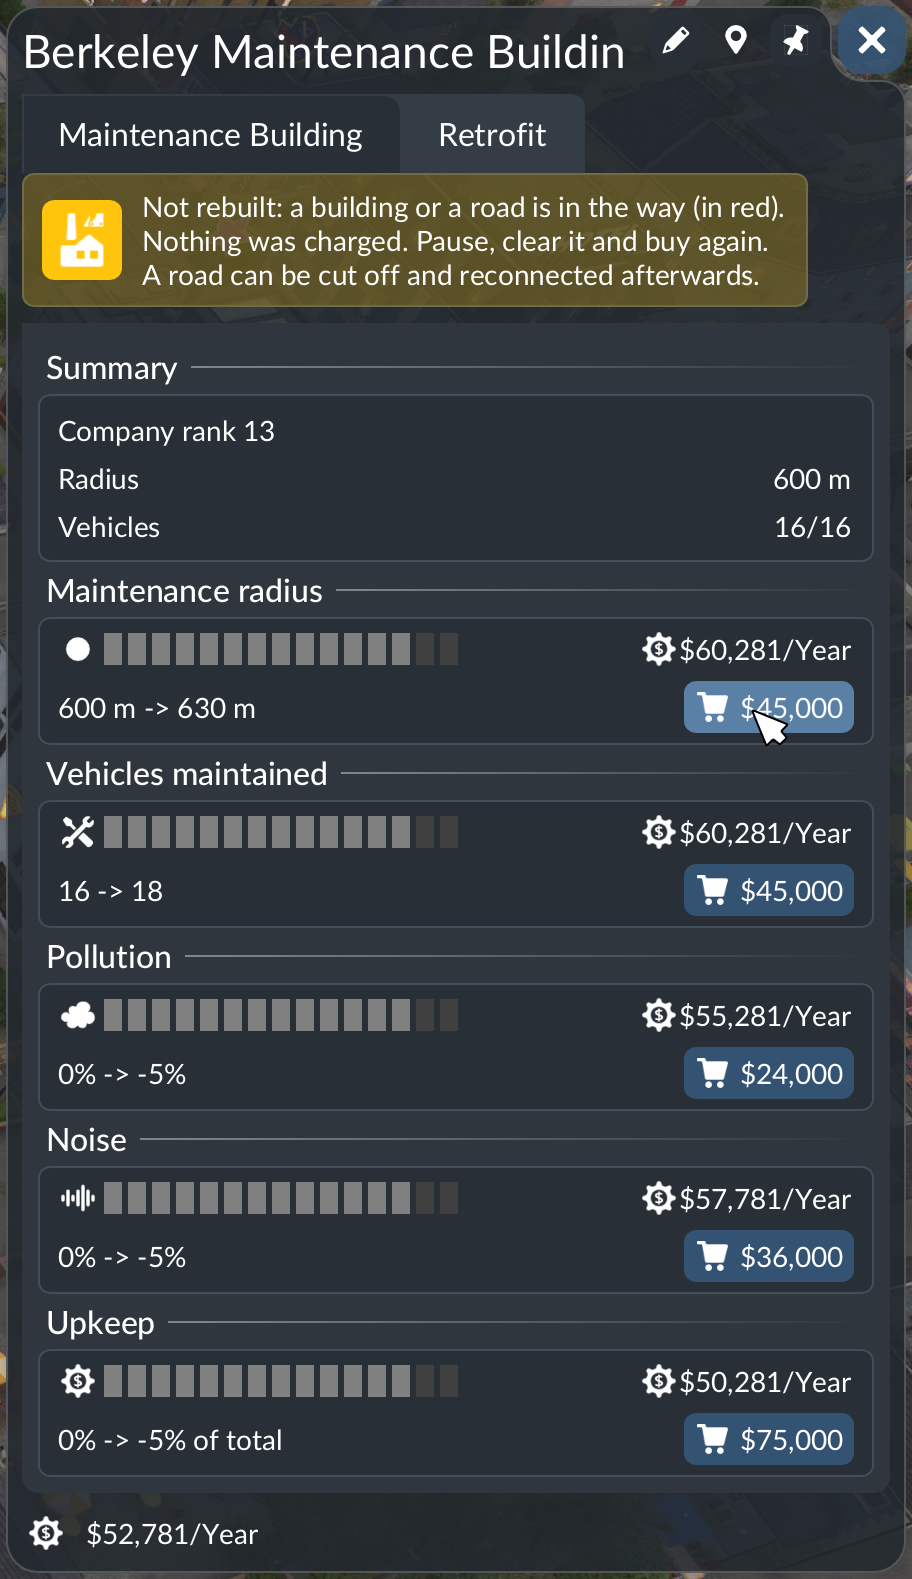
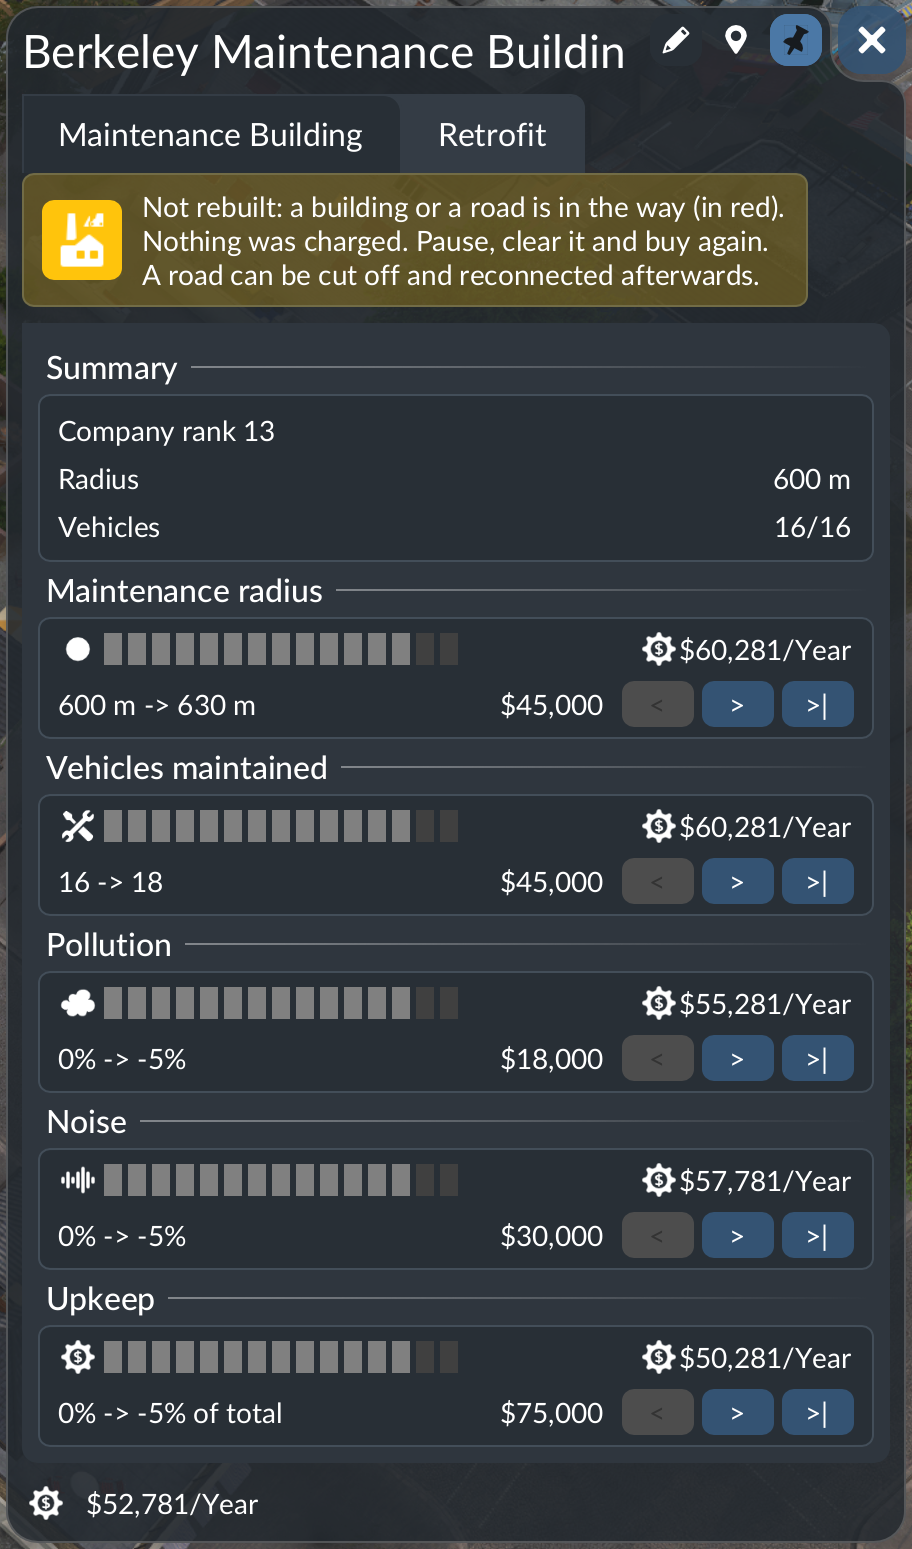
Gallery: retake images 2 and 3 with the step buttons
2-retrofit-tabs-2.jpg is redrawn with make_gallery.py and the same layout
from new window crops in tools/gallery/: Artesia Maintenance Building and
Quemado Oil Refinery Train Depot (rank 8), Peterlee Refinery West Ship
Depot (rank 15) and Berkeley Maintenance Building's "Not rebuilt" (rank
13). 3-not-rebuilt-2.jpg is the Berkeley shot cropped to 16:9 without the
toolbar. New names so mod.io sends them; references updated.

diff --git a/tools/make_gallery.py b/tools/make_gallery.py
@@ -12,8 +12,8 @@ Cards are listed from the bottom of the pile to the top. angle is in degrees (po
 pixels, slot is its place from the left (default: its place in the list). --spacing (pixels between card centres, default
 560) and --card-height (default 880) fit more than three cards. Needs rsvg-convert, for the background.
 
-The current listing's 2-retrofit-tabs.jpg (four Retrofit tabs, the last one showing "Not rebuilt") was made from the crops in tools/gallery/ with:
-python3 tools/make_gallery.py --spacing 465 --card-height 760 depot_retrofits_1/_metadata/2-retrofit-tabs.jpg tools/gallery/maintenance_building.png:2.5:16:0 tools/gallery/train_depot.png:-2.5:22:2 tools/gallery/ship_depot.png:-1:-4:1 tools/gallery/maintenance_not_rebuilt.png:1.5:6:3
+The current listing's 2-retrofit-tabs-2.jpg (four Retrofit tabs, the last one showing "Not rebuilt") was made from the crops in tools/gallery/ with:
+python3 tools/make_gallery.py --spacing 465 --card-height 760 depot_retrofits_1/_metadata/2-retrofit-tabs-2.jpg tools/gallery/maintenance_building.png:2.5:16:0 tools/gallery/train_depot.png:-2.5:22:2 tools/gallery/ship_depot.png:-1:-4:1 tools/gallery/maintenance_not_rebuilt.png:1.5:6:3
 """
 import subprocess
 import sys

diff --git a/docs/publishing.md b/docs/publishing.md
@@ -23,7 +23,7 @@
 2. **Upload.** Start the game, open **Mod Hub**, then **My Mods**, and click the mod's card. In the dialog:
    - **Validation** should read "No Issues Found" (**Re-Validate** runs it again).
    - **Preview**: the cover. On the first upload click the slot (camera icon) and pick `0.jpg`; without a cover the card shows a "?".
-   - **Gallery**: `1-cover.jpg` (the cover again), `2-retrofit-tabs.jpg`, `3-not-rebuilt.jpg`, `4-ship-depot-2.jpg`, `5-boathouse-2.jpg`, `6-rail-maintenance-2.jpg` in that order. See [Gallery](#gallery) before moving any.
+   - **Gallery**: `1-cover.jpg` (the cover again), `2-retrofit-tabs-2.jpg`, `3-not-rebuilt-2.jpg`, `4-ship-depot-2.jpg`, `5-boathouse-2.jpg`, `6-rail-maintenance-2.jpg` in that order. See [Gallery](#gallery) before moving any.
    - Tick both **PC** and **Console** for the two files (Windows, Mac and Linux; Xbox Series X/S and PlayStation 5).
    - **Set Public** ticked. Unticked, the page is hidden from visitors.
    - **Update Metadata** ticked, so the page takes the name, summary, description and tags from `modinfo.json`.
@@ -37,13 +37,13 @@
 
 ## Gallery
 
-- **The cover is in the gallery only as the first gallery image.** `0.jpg` fills the dialog's Preview slot and the mod's card, but the gallery under the large image holds only the files after it and the large image opens on the first of them (seen in the mod's dialog in the save's Mods tab and in My Mods, staging copy, 31 Oct 2026). So `1-cover.jpg` is a copy of the cover, as in Best Before, and the window cards come next as `2-retrofit-tabs.jpg`. `tools/make_preview.py` run without OUT_FILE writes both `0.jpg` and `1-cover.jpg`.
+- **The cover is in the gallery only as the first gallery image.** `0.jpg` fills the dialog's Preview slot and the mod's card, but the gallery under the large image holds only the files after it and the large image opens on the first of them (seen in the mod's dialog in the save's Mods tab and in My Mods, staging copy, 31 Oct 2026). So `1-cover.jpg` is a copy of the cover, as in Best Before, and the window cards come next as `2-retrofit-tabs-2.jpg`. `tools/make_preview.py` run without OUT_FILE writes both `0.jpg` and `1-cover.jpg`.
 - **The order is the file names.** In Best Before's dialog the gallery showed its images sorted by name, and the page followed the dialog.
 - **Moving a thumbnail swaps the files.** Each thumbnail in the dialog has a small < (Move Left), > (Move Right) and bin over its top right corner. Moving one swaps the two files' contents on disk and writes nothing else, so a named file would end up holding another picture. Reorder by renaming the files in the repo instead; if the dialog was used, fix the names to match the pictures before committing.
 - **mod.io keeps old names.** A file uploaded under a name mod.io already holds is stored under a new name (`0.4.jpg`, `workshop_preview.1.jpg`) and the old one stays on its image server.
 - **An update does not send a gallery image whose name mod.io already has.** The cover went up at every upload (`0.jpg` to `0.4.jpg` on the image server after five uploads). The gallery went up at 1.0 and again at 1.1, which added `6.jpg`; 1.1.1, 1.2 and a later update with the gallery reordered sent none, so the page kept 1.1's `2.jpg` and `6.jpg` after 1.2 replaced them on disk. So a changed picture gets a new name after the number (`3-not-rebuilt-2.jpg`). Renaming all six to `<n>-<name>.jpg` worked: the next update sent all six, stored under their own names and byte for byte the files on disk (1 Nov 2026). Whether one new name sends only that file or the whole gallery again is not known yet.
 - **An update for the images alone sends the mod file too.** The reordered update added a new pair of files (Windows, Mac and Linux; Xbox Series X/S and PlayStation 5) with the same code: after five uploads the page listed two files and "8 other versions", and the renamed gallery's update added another pair, showing about two minutes later ("10 other versions", each pair with its own changelog line). So a gallery fix is best sent with a release.
-- **Thumbnails are cropped to 16:9**, so every image is 1920x1080. `2-retrofit-tabs.jpg` is drawn by `tools/make_gallery.py` (its docstring has the command); the others after it are game screenshots cropped to 16:9, so the shot must leave room above and below the window (a shot narrower than 16:9 loses the window's title or footer).
+- **Thumbnails are cropped to 16:9**, so every image is 1920x1080. `2-retrofit-tabs-2.jpg` is drawn by `tools/make_gallery.py` (its docstring has the command); the others after it are game screenshots cropped to 16:9, so the shot must leave room above and below the window (a shot narrower than 16:9 loses the window's title or footer).
 
 ## Hub search and tiles
 

diff --git a/TODO.md b/TODO.md
@@ -23,13 +23,13 @@
   - [ ] "<" on a level above the rank (needs a building levelled above the current rank).
   - [x] A refused rebuild for a buy with the new buttons, ">|" included: "Not rebuilt" and the blocker in red, nothing charged (9 refused, 7 replaced by a retry, 2 expired after 30 s); after clearing, ">|" to 13 landed and was charged once ("333": Berkeley Maintenance Building, Berkeley Road Depot).
   - [ ] A refused rebuild for a removal: "Not rebuilt" with the removal wording ("The level was kept and nothing was refunded"), and nothing refunded.
-- [ ] Retake the gallery's `2-retrofit-tabs.jpg` (and `3-not-rebuilt.jpg`, which shows a card) with the new buttons (4 to 6 are retaken as `4-ship-depot-2.jpg`, `5-boathouse-2.jpg` and `6-rail-maintenance-2.jpg`, from the 2026-11-21 shots at 06:00:19, 05:59:33 and 06:01:40), under new file names, since mod.io keeps a picture under a name it already has. Sources (with an index) in `local/gallery/2026-11-15-step-buttons/`: for 2-retrofit-tabs.jpg a rail depot and a road maintenance building at rank 8, a road depot and a water maintenance building at rank 13; for 3-not-rebuilt.jpg Berkeley Maintenance Building with the house in red (2026-11-15 04:57:11).
+- [x] Retake the gallery with the new buttons, under new file names (mod.io keeps a picture under a name it already has): `2-retrofit-tabs-2.jpg` from Artesia Maintenance Building and Quemado Oil Refinery Train Depot (rank 8, 2026-11-14 07:40:10 and 07:40:39), Peterlee Refinery West Ship Depot (rank 15, 2026-11-21 06:00:19) and Berkeley Maintenance Building's "Not rebuilt" (rank 13, 2026-11-15 04:57:11), cropped into `tools/gallery/`; `3-not-rebuilt-2.jpg` from that Berkeley shot; `4-ship-depot-2.jpg`, `5-boathouse-2.jpg` and `6-rail-maintenance-2.jpg` from the 2026-11-21 shots at 06:00:19, 05:59:33 and 06:01:40. To go up with the 1.4 release.
 
 ## Screenshots still to take
 
 For later gallery and info-card updates. Take them with the current prices (1.3-dev or later; the earlier ones are evicted from `local/gallery/2026-11-05-cards/`, which has only the "Not bought" note and one window crop). Take them with the TRM mods off, since TRM: Infrastructure Upkeep changes the upkeep figures. Take the full 4K shot, so the cards and the building both show; the window sits at about x 2870-3790. Shots with the "<", ">" and ">|" buttons are copied, with an index, to `local/gallery/2026-11-15-step-buttons/` (13 files, ranks 1, 8 and 13, no TRM); earlier shots show the 1.3 buy button.
 
-- [x] "Not rebuilt" with the house in red, as in the gallery's 3-not-rebuilt.jpg but with the new buttons (Berkeley Maintenance Building in "333", 2026-11-15 04:57:11); Berkeley Road Depot with the tall building in red at 04:57:47.
+- [x] "Not rebuilt" with the house in red, with the new buttons (now the gallery's 3-not-rebuilt-2.jpg) (Berkeley Maintenance Building in "333", 2026-11-15 04:57:11); Berkeley Road Depot with the tall building in red at 04:57:47.
 - [ ] "Not bought: the buy could not be carried out" (the industry cross icon). Rare; needs a temporary refusal in the game script, as the noise test did for the money note.
 - [ ] A mix of company ranks, each with a full tab and the Summary card showing the rank (the rank decides how many boxes are grey, how many dark, and which cards read "Rank N" in place of the price):
   - [ ] Low rank (1 to 4): few buyable boxes, most of the row dark, most cards greyed with "Rank N". Partly: rank 1 at level 0 (Socorro Maintenance Building, 2026-11-08 16:31), one box buyable and every card still priced; "Rank N" needs level 1 bought.

diff --git a/CLAUDE.md b/CLAUDE.md
@@ -34,9 +34,9 @@ python3 tools/check_repo.py
 # Redraw the mod's cover (depot_retrofits_1/_metadata/0.jpg, the uploader's Preview slot, and its copy 1-cover.jpg, the first gallery image; 1920x1080; needs rsvg-convert and the Lato font)
 python3 tools/make_preview.py [--version 1.0] [--keep-svg local/preview/cover.svg]   # the version goes in the upper right corner, kept clear for it
 
-# Redraw the gallery's 2-retrofit-tabs.jpg: hand-cropped screenshots of the building window, laid as a pile of cards on the cover's background
-python3 tools/make_gallery.py depot_retrofits_1/_metadata/2-retrofit-tabs.jpg CARD.png[:angle[:dy[:slot]]] ...   # the docstring has the command for the current image
-# 3-not-rebuilt.jpg to 6-rail-maintenance-2.jpg are game screenshots cropped to 16:9 and scaled to 1920x1080 (the listing's thumbnails are cropped to 16:9). The layout: 0.jpg is the cover, <n>-<name>.jpg the gallery in file-name order with 1-cover.jpg a copy of the cover, no workshop_preview.jpg (docs/publishing.md)
+# Redraw the gallery's 2-retrofit-tabs-2.jpg: hand-cropped screenshots of the building window, laid as a pile of cards on the cover's background
+python3 tools/make_gallery.py depot_retrofits_1/_metadata/2-retrofit-tabs-2.jpg CARD.png[:angle[:dy[:slot]]] ...   # the docstring has the command for the current image
+# 3-not-rebuilt-2.jpg to 6-rail-maintenance-2.jpg are game screenshots cropped to 16:9 and scaled to 1920x1080 (the listing's thumbnails are cropped to 16:9). The layout: 0.jpg is the cover, <n>-<name>.jpg the gallery in file-name order with 1-cover.jpg a copy of the cover, no workshop_preview.jpg (docs/publishing.md)
 ```
 
 Run `tl check` on each script you touch.

diff --git a/README.md b/README.md
@@ -6,7 +6,7 @@ A Transport Fever 3 script mod: depots and maintenance buildings get levels that
 
 <p>
   <img src="depot_retrofits_1/_metadata/0.jpg" alt="Depot Retrofits: level up your depots" width="49%">
-  <img src="depot_retrofits_1/_metadata/2-retrofit-tabs.jpg" alt="The Retrofit tab of four buildings, one card per retrofit; the last shows the Not rebuilt warning" width="49%">
+  <img src="depot_retrofits_1/_metadata/2-retrofit-tabs-2.jpg" alt="The Retrofit tab of four buildings, one card per retrofit; the last shows the Not rebuilt warning" width="49%">
 </p>
 
 ## In short
